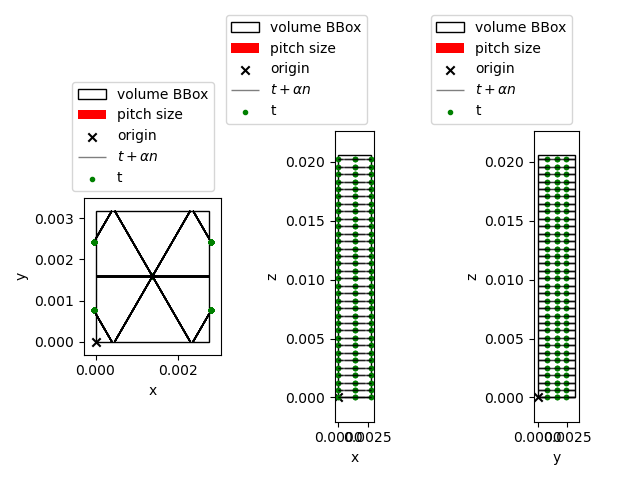
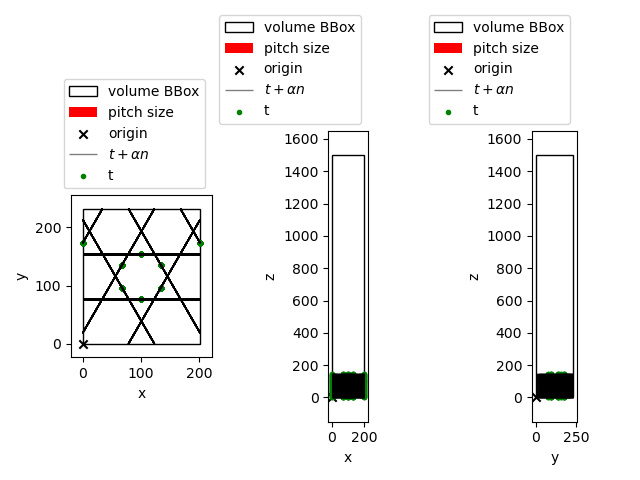
[xray] change setup

diff --git a/src/pyxu/experimental/xray/3dtests/bhatt_method_weighted_interpolated/bhatt_3d_weighted_interpolated.py b/src/pyxu/experimental/xray/3dtests/bhatt_method_weighted_interpolated/bhatt_3d_weighted_interpolated.py
@@ -24,7 +24,7 @@ num_n = 1500  # 3000
 bin_size = 1
 slm_pixels_height = 50  # 100
 slm_pixels_width = 100  # 200
-lambda_ = 0.4
+lambda_ = 4
 diff_lip = 0.5
 
 
@@ -136,29 +136,25 @@ chosen_gt = "bunny_padded"
 refraction = False
 optimize_save = True
 
-cylinder_inner_radius = 15.5e-3
-cylinder_outer_radius = 16.5e-3
-cylinder_max_height = 0.0105216 * 3
-cylinder_min_height = 0
-assert cylinder_inner_radius < cylinder_outer_radius
-
 origin = 0
-vox_side = 13.7e-6
-max_height = cylinder_max_height
-max_offset = cylinder_outer_radius / 10
-pitch = vox_side * np.array([1.0, 1.0, 10])
+pitch = np.array([1.0, 1.0, 10])
 
 print("Creating rays...")
 num_heights = slm_pixels_height // bin_size
 num_offsets = slm_pixels_width // bin_size
 
+side = np.array(ground_truth.shape)
+max_height = ground_truth.shape[-1]
 angle = np.linspace(0, 2 * np.pi, num_n, endpoint=False)
-heights = np.linspace(0.0000001 + cylinder_min_height, max_height, num_heights, endpoint=False)
-t_offset = np.linspace(-max_offset, max_offset, num_offsets, endpoint=True)
+heights = np.linspace(0.0000001, max_height, num_heights, endpoint=False)
+t_max = pitch * side / 2
+t_max = t_max[:-1]
+max_t_max = np.max(t_max)
+t_offset = np.linspace(-max_t_max, max_t_max, num_offsets, endpoint=False)
 
 n = np.stack([np.cos(angle), np.sin(angle), np.zeros(num_n)], axis=1)
 t = n[:, [1, 0]] * np.r_[-1, 1]  # <n, t> = 0
-t = np.tile(t, len(heights)).reshape(-1, 2)
+t = np.tile(t, num_heights).reshape(-1, 2)
 heights = np.tile(heights, num_n).reshape(-1, 1)
 t = np.hstack([t, heights]).reshape(num_n * num_heights, 1, 3)
 
